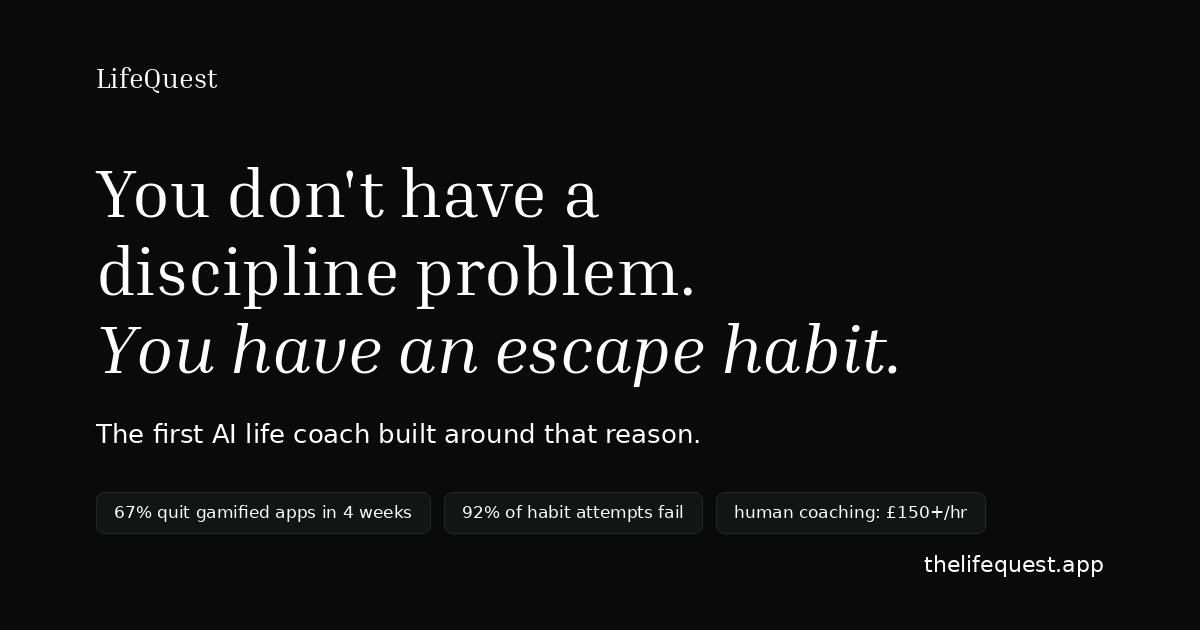
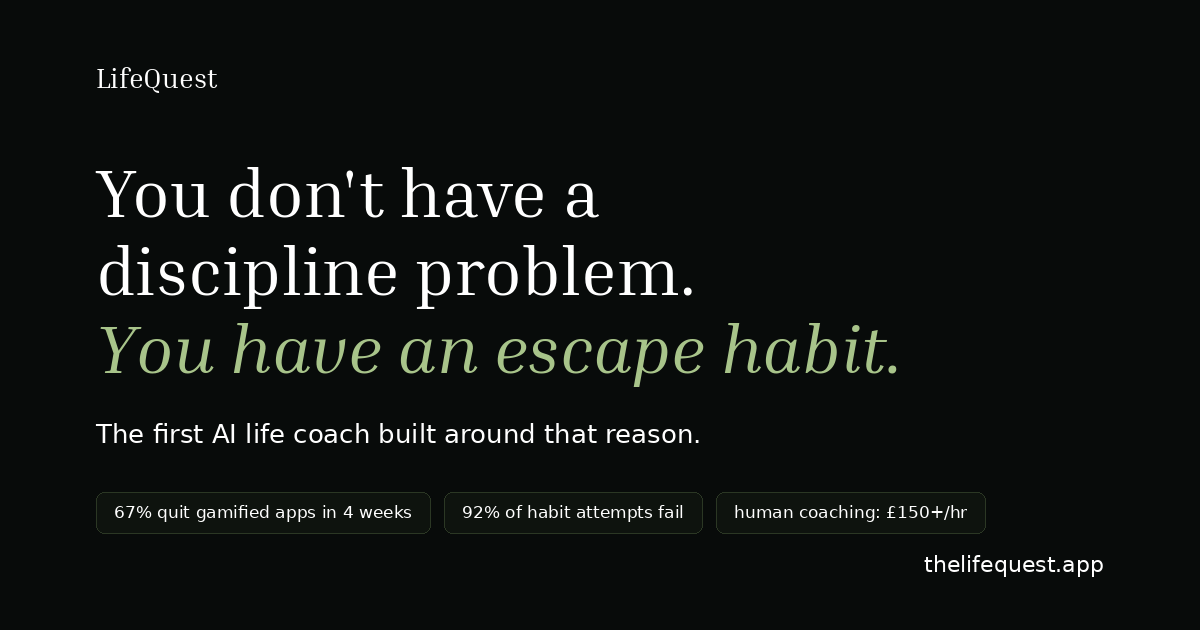
Copy v2.1 (punchier, founder note halved, escape generalised) + sage green accents, OG image match

Changed region(s): [[0.0925, 0.5127, 0.74, 0.6032]]

diff --git a/index.html b/index.html
@@ -27,7 +27,7 @@
   <!-- BLOCK 1 — HERO -->
   <section id="hero">
     <div class="container">
-      <h1>You don't have a discipline problem.<br>You have an escape habit.</h1>
+      <h1>You don't have a discipline problem.<br><span class="accent">You have an escape habit.</span></h1>
       <p class="sub">You've tried Notion. Habitica. Streaks. They all failed for the same reason.<br>LifeQuest is the first AI life coach built around that reason.</p>
       <form class="signup-form" novalidate>
         <input type="email" name="email" placeholder="Your email" required autocomplete="email">
@@ -57,7 +57,7 @@
           <p>is what human life coaching costs — the one thing that actually works, priced out of reach.</p>
         </div>
       </div>
-      <p class="bridge">Think about that. The apps designed to be <em>more</em> engaging are <em>more</em> likely to make you quit — because they give you points and streaks with no connection to anything you actually care about. The research has known this for 40 years. The apps haven't caught up.</p>
+      <p class="bridge">Think about that. The more engaging the app, the faster you quit — because points and streaks connect to nothing you actually care about. The research has known this for 40 years. The apps haven't caught up.</p>
       <p class="bridge"><strong>LifeQuest is the AI that changes this equation.</strong></p>
       <p class="sources">Sources: Gamification Hub retention synthesis (2026); University of Rochester SDT lab; UK coaching market data (2025).</p>
     </div>
@@ -71,19 +71,19 @@
       <div class="cards">
         <div class="card">
           <h3>A coach that gets the why</h3>
-          <p>You get real AI coaching conversations — not scripted prompts or pep talks — so you can figure out what your goals actually mean to you, even if you've never been able to explain why you care about them, which means every action you take is connected to something real from day one.</p>
+          <p>Real coaching conversations, not scripted pep talks. LifeQuest starts with what your goals actually mean to you — so every action connects to something real from day one.</p>
         </div>
         <div class="card">
           <h3>Your life as a skill tree</h3>
-          <p>You get your goals mapped across four areas — health, career, growth, relationships — each broken into a visual skill tree, so you can see exactly how today's tiny action connects to what you're building, even if your goals feel vague or overwhelming, which means you finally stop feeling like you're going in circles.</p>
+          <p>Your goals mapped across health, career, growth, and relationships — broken into a visual skill tree. See exactly how today's tiny action builds toward the life you're after.</p>
         </div>
         <div class="card">
           <h3>No punishment. Ever.</h3>
-          <p>You get a coach that treats slipping up as data, not failure — no streak resets, no HP loss, no guilt spiral — so you can miss a day without it becoming a reason to quit everything, even if apps have burned you before, which means you come back instead of starting over for the hundredth time.</p>
+          <p>No streak resets. No locked apps. No guilt spiral. Miss a day and it's data, not failure — so you come back instead of starting over for the hundredth time.</p>
         </div>
         <div class="card">
           <h3>Built for the exact moment you escape</h3>
-          <p>You get an app designed around the specific moment you know what you should be doing and reach for your phone instead, so you can close that gap without willpower or a lecture, even if discipline has never been your thing, which means something finally sticks.</p>
+          <p>You know the moment — you know what you should be doing, and you reach for your phone instead. LifeQuest doesn't lock your screen or lecture you. It fixes why you reach.</p>
         </div>
       </div>
     </div>
@@ -96,14 +96,10 @@
       <div class="founder-grid">
       <img src="founder.jpg" alt="Ryan Rowley, founder of LifeQuest" class="founder-photo" onerror="this.style.display='none'">
       <div class="founder-text">
-      <p>I'm Ryan. I have a good job. I'm not lazy. I know exactly what I should be doing.</p>
-      <p>And for years, I wasn't doing it.</p>
-      <p>Every time the task got boring — or hard — or just slightly inconvenient — I found something else to do. Instagram. YouTube. Anything but the thing. I tried Notion. Built the perfect system. Used it for three days. I tried Habitica. Liked the idea. Quit when the game started feeling like a chore.</p>
-      <p>And even when something did stick, life would knock it loose. A brutal week at work. A holiday. One bad month. The system didn't bend — it shattered, and I never went back to it. Starting was never my problem. Restarting was.</p>
-      <p>The problem wasn't the tools. It was that none of them ever answered the question that actually mattered: <em>why do I keep escaping?</em></p>
-      <p>The second I understood that — that it wasn't discipline I was missing, it was meaning — everything changed. That's what LifeQuest is built around. Not another system for the person who just needs reminding. An AI coach for the person who already knows, already cares, and keeps stopping anyway — built to bring you back when life knocks you off course, not make you start from zero.</p>
-      <p>If that's you, get on the list.</p>
-      <p>One more thing: this is my first app. I'm not a seasoned founder — I'm someone who got frustrated enough to build the thing that didn't exist. That means your feedback genuinely matters. Not as a courtesy. The people who sign up early will shape what this becomes.</p>
+      <p>I'm Ryan. I have a good job. I'm not lazy. I know exactly what I should be doing. For years, I wasn't doing it.</p>
+      <p>The moment a task got boring or hard, I'd escape to anything but the thing. I built the perfect Notion system — used it for three days. Tried Habitica — quit when the game felt like a chore. And when life hit — a brutal week, one bad month — whatever had stuck fell apart, and I never went back.</p>
+      <p>None of those tools ever asked the question that mattered: <em>why do I keep escaping?</em> The answer wasn't discipline. It was meaning. That's what LifeQuest is built around — a coach for the person who already knows, already cares, and keeps stopping anyway. And a way back when life knocks you off course.</p>
+      <p>This is my first app. I'm building it because it didn't exist. Sign up early and you shape what it becomes — that's not a courtesy, it's the deal.</p>
       <p>— Ryan</p>
       </div>
       </div>
@@ -116,12 +112,12 @@
       <h2>Get in before it launches.</h2>
       <p class="pitch-body">LifeQuest launches late 2026. The first 50 people who join the founding cohort get:</p>
       <ul class="pitch-list">
-        <li>Lifetime pricing locked in — never pay more than the founding rate, whatever the app costs at launch</li>
+        <li>Lifetime pricing locked in — never pay more than the founding rate</li>
         <li>Direct input into what we build first — your answer to the post-signup question shapes the product</li>
         <li>First access on launch day, before anyone on the public waitlist</li>
       </ul>
-      <p class="pitch-body">Reserve your spot with a fully refundable £5 deposit. If LifeQuest isn't ready, doesn't ship, or isn't what you hoped — you get it back in full. No questions, no pressure.</p>
-      <p class="pitch-body">The £5 isn't the price. It's the signal. It tells us you're serious — and it tells you we're serious too.</p>
+      <p class="pitch-body">Reserve your spot with a fully refundable £5 deposit. Not ready, doesn't ship, not what you hoped? Full refund. No questions.</p>
+      <p class="pitch-body">The £5 isn't the price. It's the signal — you're serious, and so are we.</p>
       <form class="signup-form" novalidate>
         <input type="email" name="email" placeholder="Your email" required autocomplete="email">
         <button type="submit" class="btn">Reserve my spot — £5 refundable deposit</button>
@@ -134,7 +130,7 @@
   <!-- P.S. -->
   <div class="ps">
     <div class="container">
-      <p><strong>P.S.</strong> You already know what you want to do this year. You've known for a while. The question is whether you're going to keep bouncing off systems that weren't built for how you actually work — or try the one that starts with why you escape. 50 founding spots. £5 refundable. Founding pricing closes when we hit 50. <a href="#form">Reserve your spot.</a></p>
+      <p><strong>P.S.</strong> You already know what you want to do this year. You've known for a while. Stop bouncing off systems built for someone else — try the one that starts with why you escape. 50 spots. £5. Refundable. <a href="#form">Reserve your spot.</a></p>
     </div>
   </div>
 

diff --git a/style.css b/style.css
@@ -4,14 +4,19 @@
 
 :root {
   --bg-top: #080b0a;
-  --bg-bottom: #161b1a;
-  --card: rgba(255, 255, 255, 0.04);
-  --card-border: rgba(255, 255, 255, 0.09);
+  --bg-bottom: #121a13;
+  --accent: #a8c48a;
+  --accent-border: rgba(138, 173, 106, 0.22);
+  --accent-faint: rgba(138, 173, 106, 0.07);
+  --card: rgba(138, 173, 106, 0.05);
+  --card-border: rgba(138, 173, 106, 0.16);
   --text-heading: #ffffff;
   --text-body: rgba(255, 255, 255, 0.75);
   --text-muted: rgba(255, 255, 255, 0.5);
   --input-border: rgba(255, 255, 255, 0.2);
 }
+
+.accent { color: var(--accent); }
 
 html { scroll-behavior: smooth; }
 
@@ -111,7 +116,7 @@ header.site { padding: 28px 0 0; text-align: center; }
 
 .signup-form input[type="email"]:focus {
   outline: none;
-  border-color: rgba(255, 255, 255, 0.5);
+  border-color: rgba(168, 196, 138, 0.6);
 }
 
 .btn {
@@ -170,7 +175,7 @@ header.site { padding: 28px 0 0; text-align: center; }
   font-family: "Inria Serif", Georgia, serif;
   font-weight: 400;
   font-size: 21px;
-  color: var(--text-heading);
+  color: var(--accent);
   margin-bottom: 12px;
 }
 
@@ -194,7 +199,7 @@ header.site { padding: 28px 0 0; text-align: center; }
 .stat-number {
   font-family: "Inria Serif", Georgia, serif;
   font-size: 44px;
-  color: var(--text-heading);
+  color: var(--accent);
   line-height: 1;
   margin-bottom: 14px;
 }
@@ -240,7 +245,7 @@ header.site { padding: 28px 0 0; text-align: center; }
   margin-bottom: 12px;
 }
 
-.pitch-list li::before { content: "→"; position: absolute; left: 0; color: var(--text-heading); }
+.pitch-list li::before { content: "→"; position: absolute; left: 0; color: var(--accent); }
 
 /* PS block */
 .ps {
@@ -271,7 +276,7 @@ textarea {
   text-align: left;
 }
 
-textarea:focus { outline: none; border-color: rgba(255, 255, 255, 0.5); }
+textarea:focus { outline: none; border-color: rgba(168, 196, 138, 0.6); }
 
 .char-count { font-size: 13px; color: var(--text-muted); text-align: right; margin-bottom: 20px; }
 